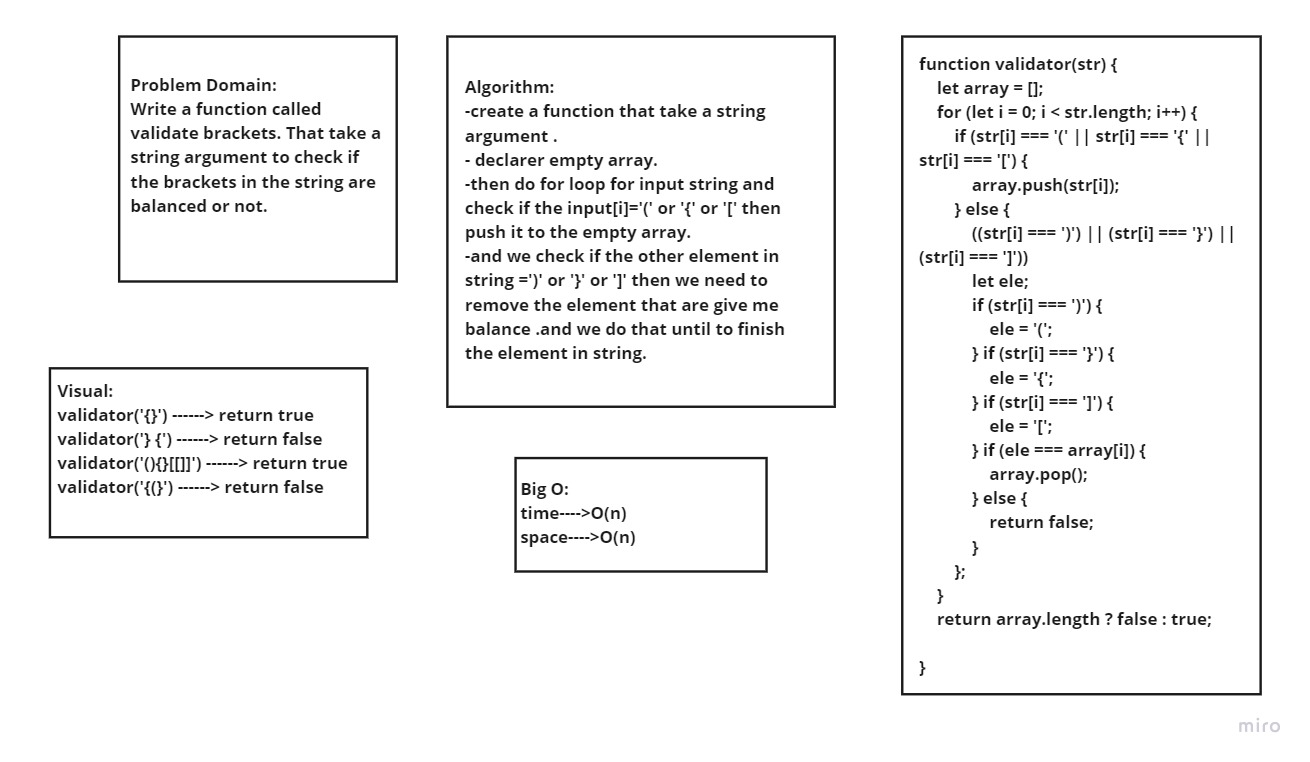
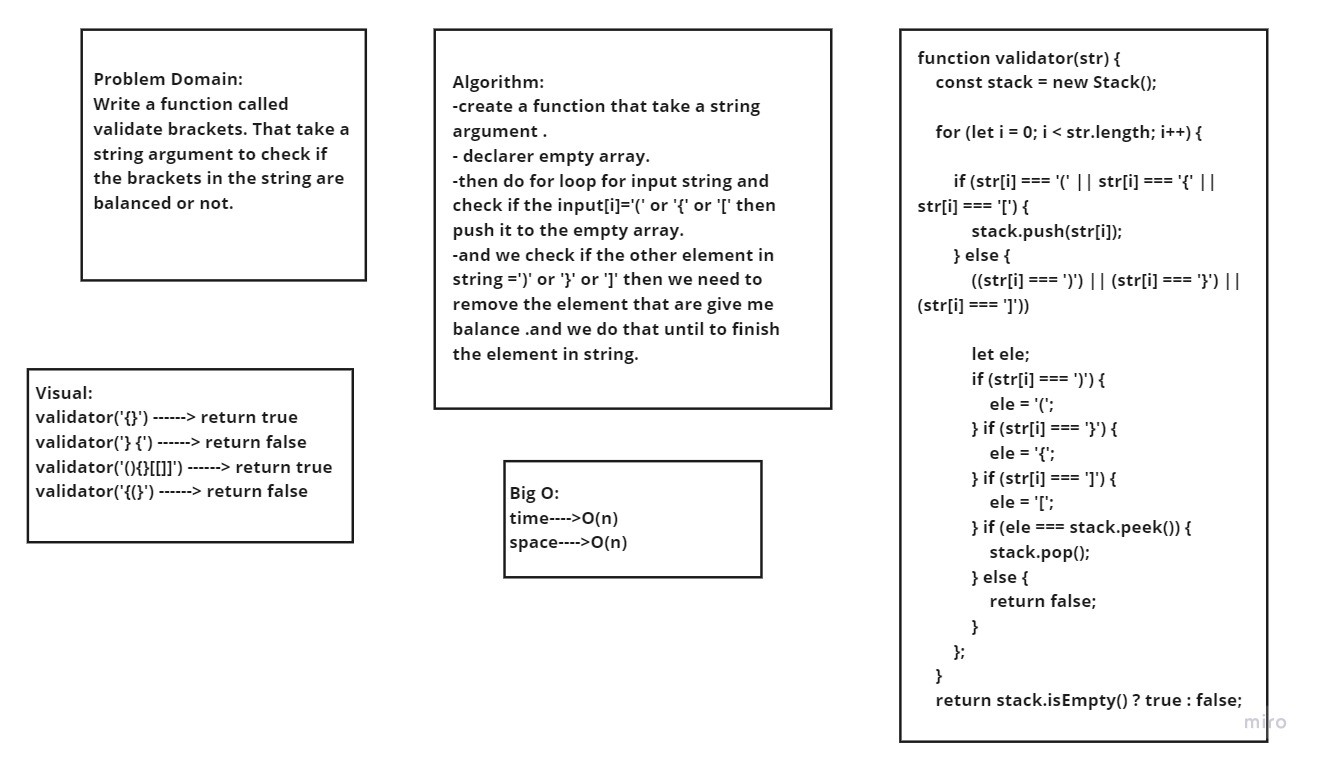
chalenge-13

diff --git a/javascript/Multi-bracket Validation/bracket-balance.js b/javascript/Multi-bracket Validation/bracket-balance.js
@@ -1,13 +1,13 @@
 
-
+const Stack = require('../stack-and-queue/ stack-class ');
 function validator(str) {
-    let array = [];
+    const stack = new Stack();
     // let result;
     for (let i = 0; i < str.length; i++) {
         // let char = array[array.length - 1];
         // console.log('char', char);
         if (str[i] === '(' || str[i] === '{' || str[i] === '[') {
-            array.push(str[i]);
+            stack.push(str[i]);
         } else {
             ((str[i] === ')') || (str[i] === '}') || (str[i] === ']'))
 
@@ -18,14 +18,14 @@ function validator(str) {
                 ele = '{';
             } if (str[i] === ']') {
                 ele = '[';
-            } if (ele === array[i]) {
-                array.pop();
+            } if (ele === stack.peek()) {
+                stack.pop();
             } else {
                 return false;
             }
         };
     }
-    return array.length ? false : true;
+    return stack.isEmpty() ? true : false;
 
 }
 

diff --git a/javascript/Multi-bracket Validation/README.md b/javascript/Multi-bracket Validation/README.md
@@ -14,7 +14,7 @@
 
   3. Drow the whitebord
 
-  3. Writting the code
+  4. Writting the code
 
 ## Test:
  - npm run watch
